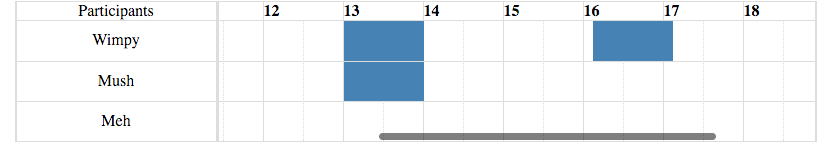
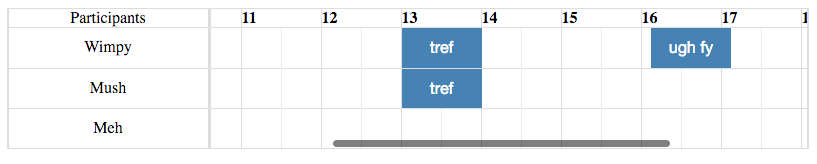
Added conference name

diff --git a/index.js b/index.js
@@ -133,7 +133,7 @@ export class GanttTimeCalendar {
                                 left: startPosition + 'px',
                                 width: (endPosition - startPosition) + 'px',
                                 top: 0
-                            }}, resources[name].conference)
+                            }}, r.conference_name)
                         );
                     });
                 }

diff --git a/example/index.html b/example/index.html
@@ -61,8 +61,14 @@
         }
         .conference {
             background: #4682B4;
+            box-sizing: border-box;
+            color: #FFF;
+            font-family: Helvetica Neue;
             height: 100%;
             position: absolute;
+            padding: 10px;
+            text-align: center;
+            vertical-align: middle;
             z-index: 2;
         }
         .major {
